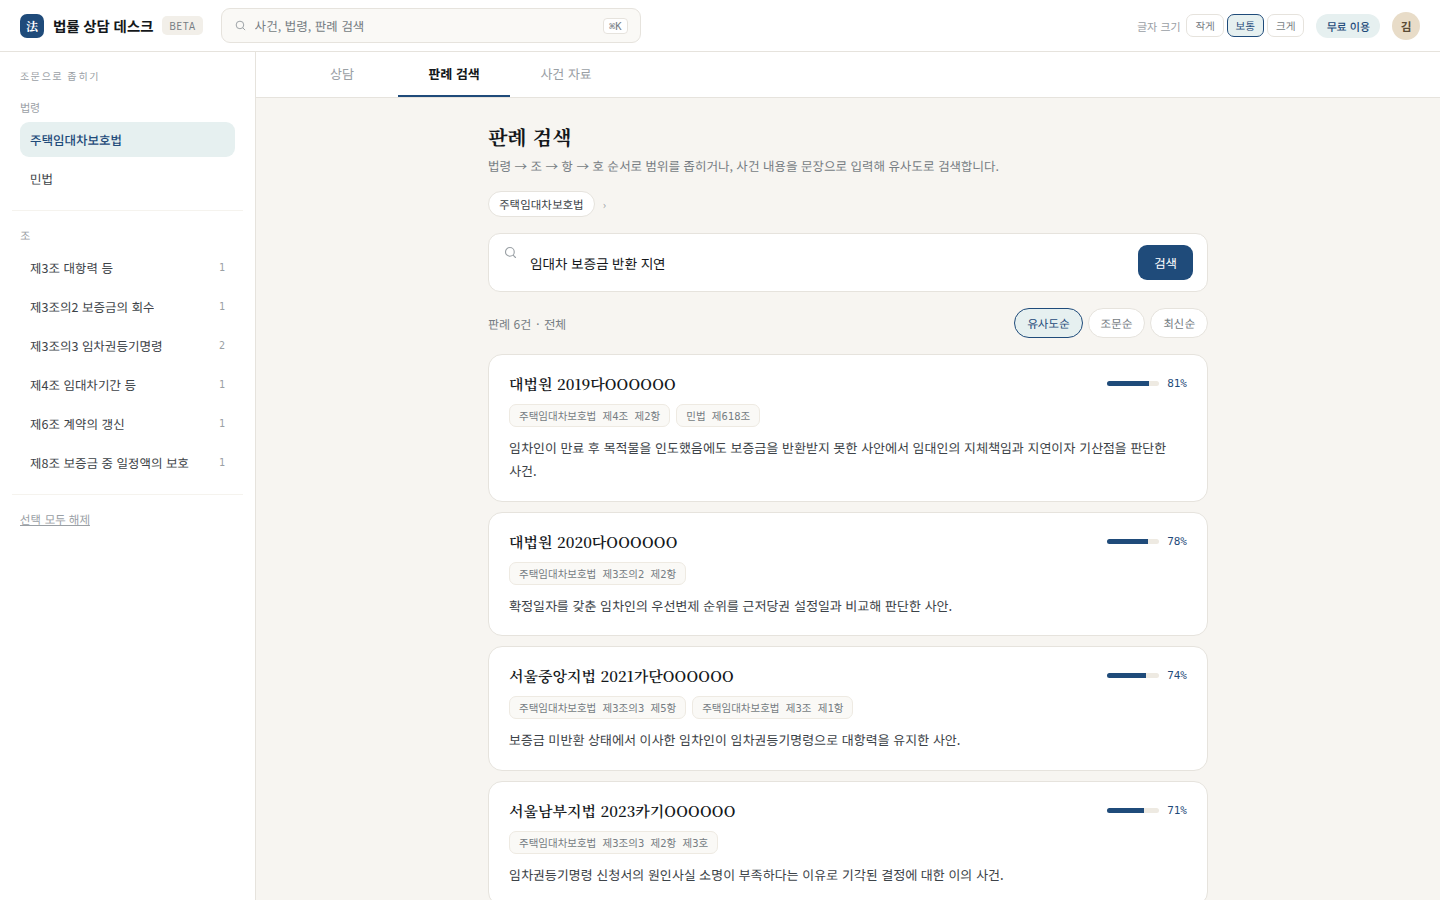
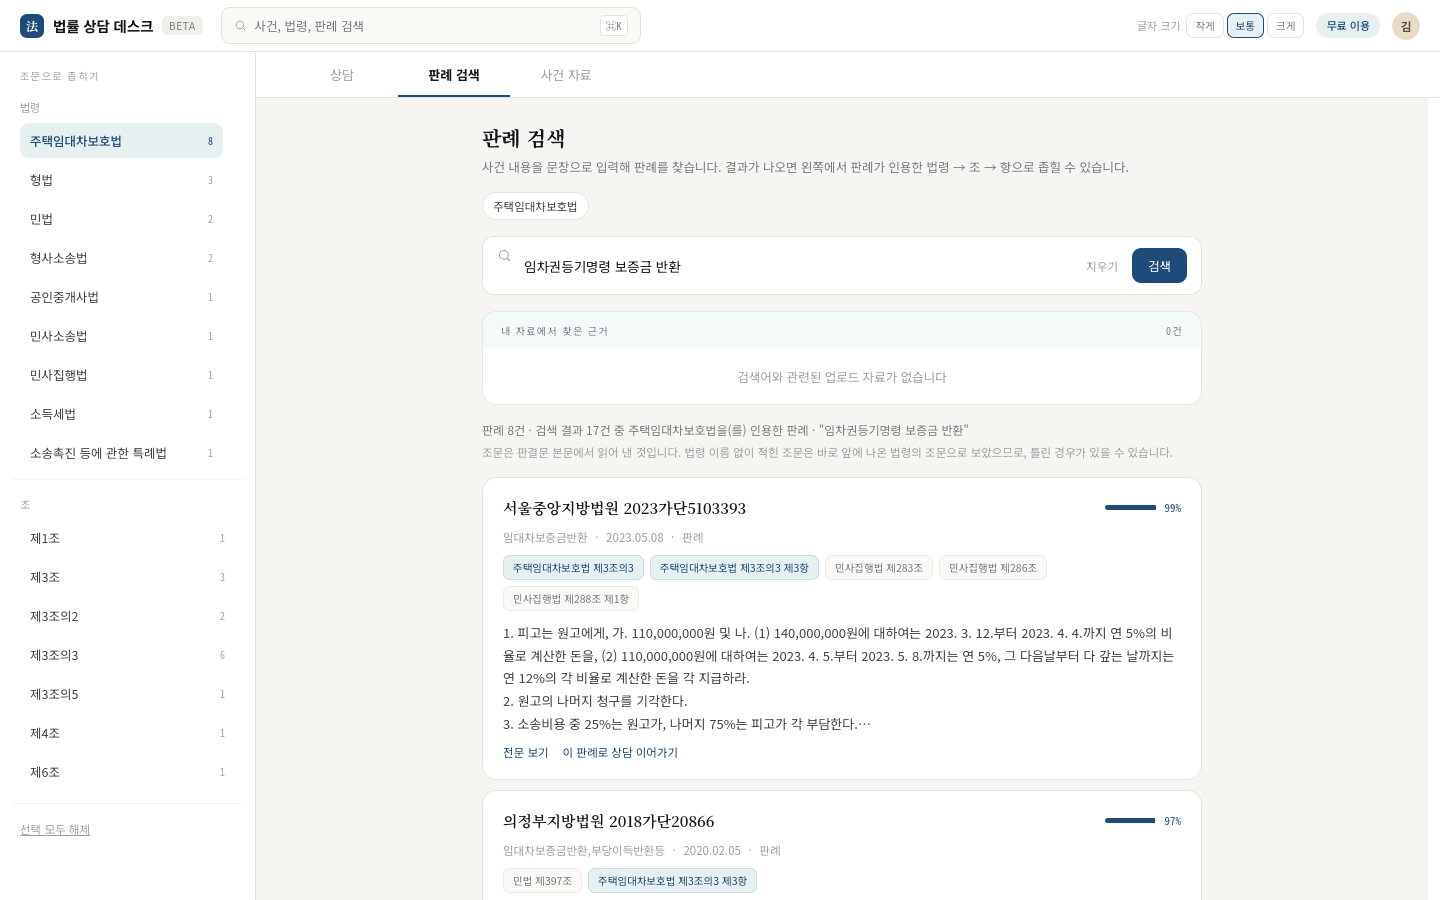
docs: the README shows the rebuilt case-search page
The screenshot showed the sample law and the invented cases. The new one is
the page's own scripts rendered with a search the running app returned.

diff --git a/README.md b/README.md
@@ -39,7 +39,7 @@
 
 ### 판례 검색
 
-![판례 검색 화면: 왼쪽에서 법령과 조를 고르고 가운데에서 판례 목록을 봅니다](docs/images/cases.png)
+![판례 검색 화면: 가운데에서 사건 내용으로 판례를 검색하고, 왼쪽에서 결과의 판례가 인용한 법령과 조로 좁힙니다](docs/images/cases.png)
 
 ### 사건 자료
 
